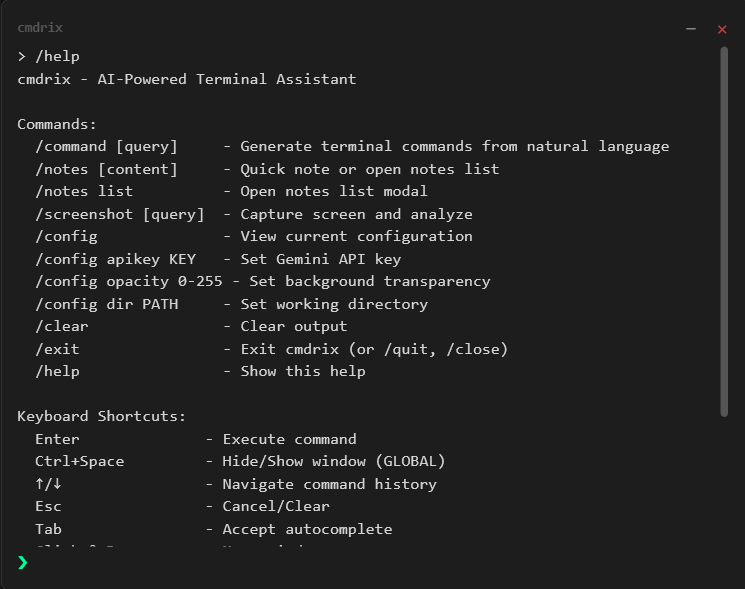
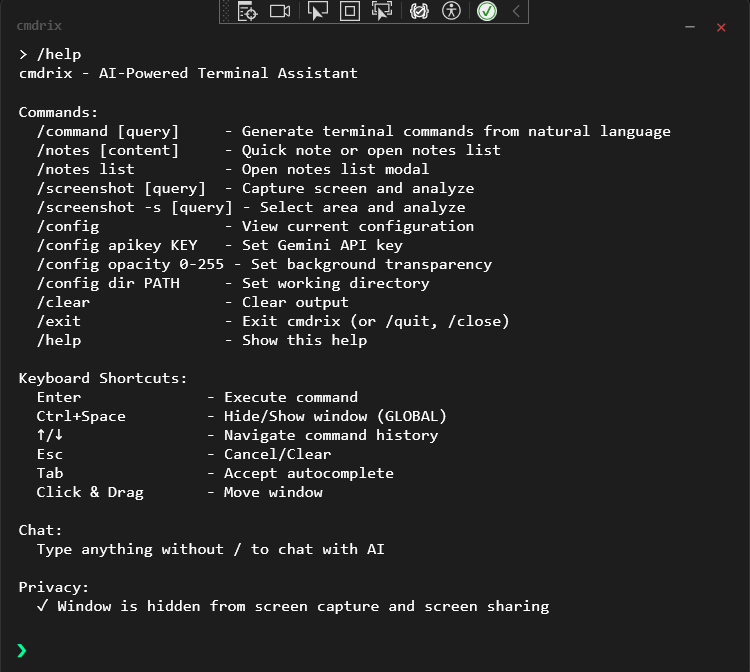
readme

diff --git a/readme.md b/readme.md
@@ -56,6 +56,7 @@ dotnet run
 | `/notes [content]` | Quick note creation or open notes list |
 | `/notes list` | Open notes management modal |
 | `/screenshot [query]` | Capture screen and analyze with AI |
+| `/screenshot -s [query]` | Select area and analyze with AI |
 | `/config` | View current configuration |
 | `/config apikey KEY` | Set your Gemini API key |
 | `/config opacity 0-255` | Adjust window transparency |
@@ -63,6 +64,7 @@ dotnet run
 | `/clear` | Clear output history |
 | `/help` | Show help information |
 | `/exit` | Exit cmdrix |
+
 
 ### Keyboard Shortcuts
 
@@ -98,6 +100,11 @@ dotnet run
 /screenshot what error is shown?
 📸 Taking screenshot...
 [AI analyzes and explains the error on screen]
+```
+
+**Privacy focus:**
+```
+ App Window is hidden from screen capture and screen sharing
 ```
 
 ## 🤝 Contributing
